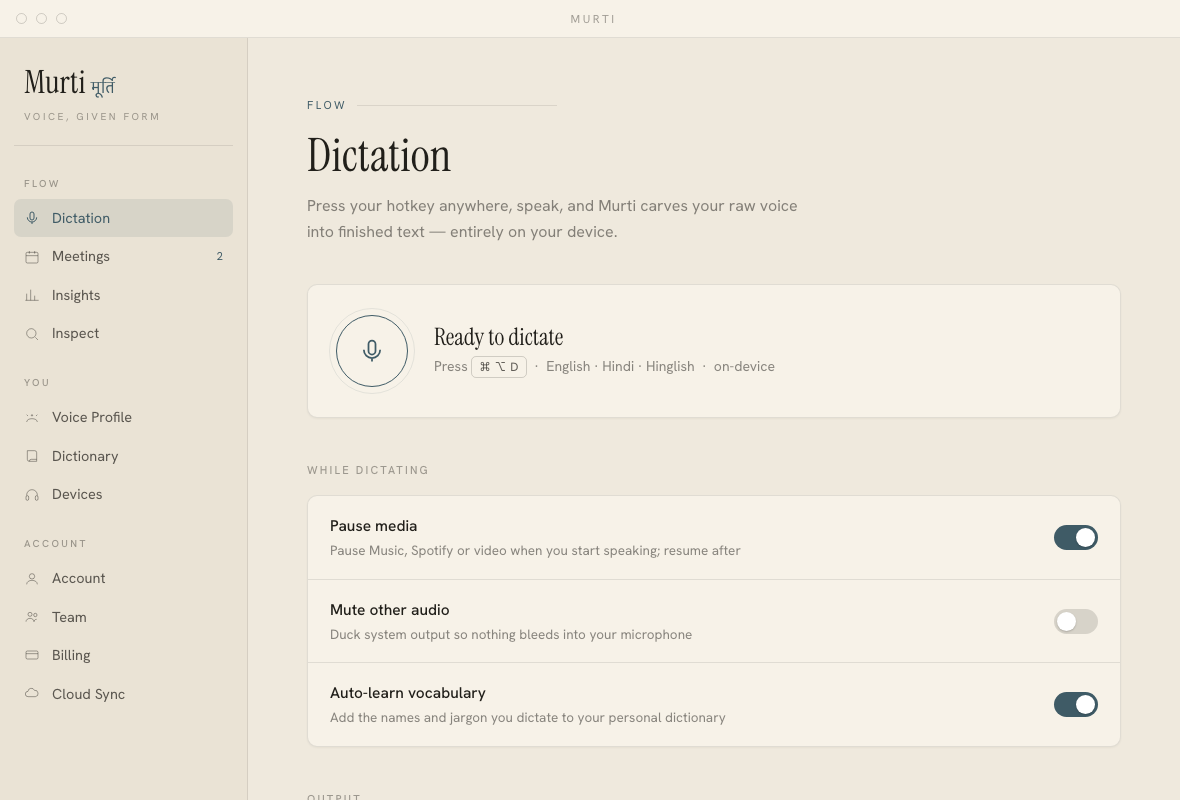
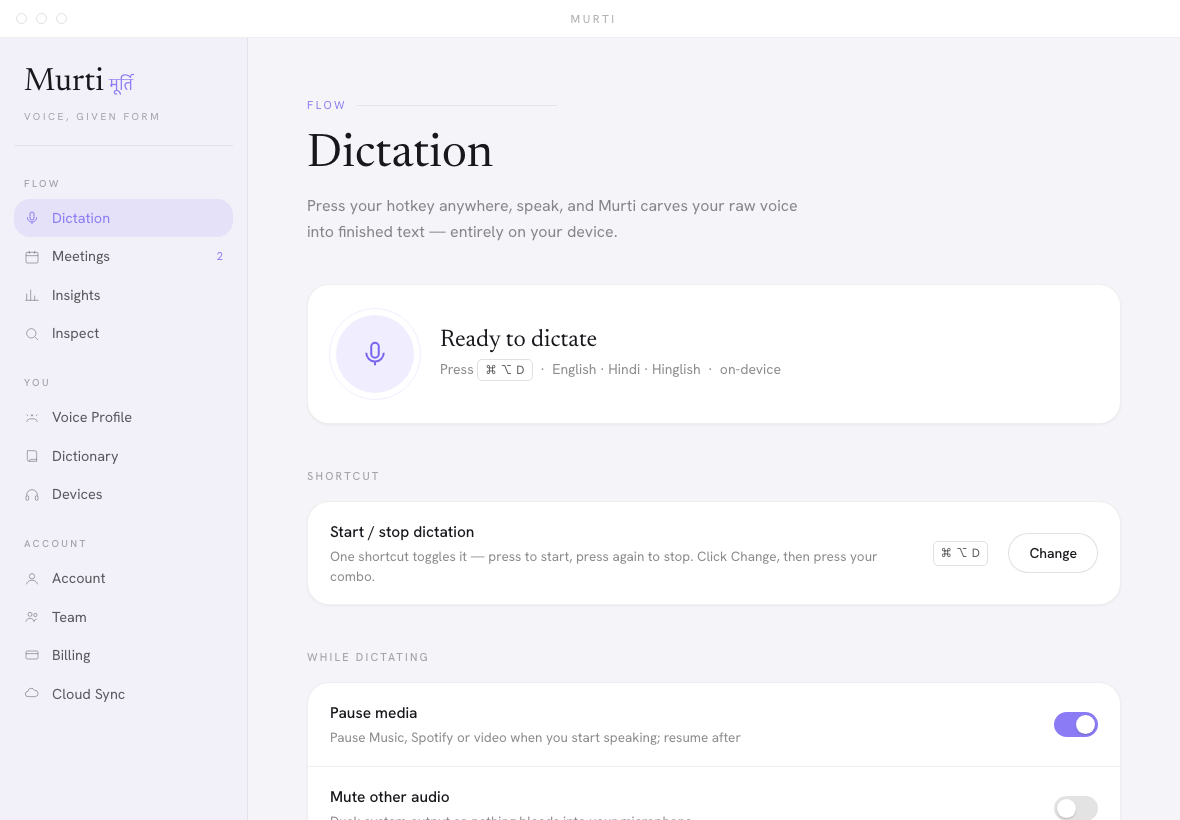
Refresh README + demo to the Serus light/lavender design
- demo/murti-hero.svg: reskinned to the light + lavender palette (white mic
  glyph on a lavender orb), matching the current UI
- demo/dashboard.png: new screenshot of the Serus-style dashboard
- README: Design section rewritten (Newsreader + Hanken, near-white canvas,
  lavender, pill controls, live WKWebView window); added the custom-shortcut
  feature to the table

diff --git a/demo/make_hero_svg.py b/demo/make_hero_svg.py
@@ -11,10 +11,11 @@ Regenerate with:  python3 demo/make_hero_svg.py
 from pathlib import Path
 
 # ---- Murti palette (warm editorial dark + bronze accent) ------------------- #
-BG, CARD, CARD2 = "#0e0d0c", "#161413", "#1d1a18"
-FG, DIM, DIM2 = "#efe9e0", "#a69d8f", "#746b5f"
-LINE = "#2a2622"
-WHITE = "#c08a5a"   # bronze accent (reused wherever the mark needs emphasis)
+BG, CARD, CARD2 = "#f5f4f8", "#ffffff", "#f1eff8"
+FG, DIM, DIM2 = "#18171c", "#6e6c78", "#a3a1ad"
+LINE = "#e6e4ef"
+WHITE = "#8b7cf5"       # lavender accent (reused wherever the mark needs emphasis)
+ON_ACCENT = "#ffffff"   # content drawn on top of the accent circle (mic glyph)
 W, H, CYCLE = 940, 600, 12.0
 FONT = "'Helvetica Neue',-apple-system,BlinkMacSystemFont,system-ui,sans-serif"
 
@@ -115,9 +116,9 @@ def build():
                  f'r="44" fill="none" stroke="{WHITE}" stroke-width="1.5"/>')
     P.append(f'<circle cx="{cx}" cy="{cy}" r="44" fill="{WHITE}"/>')
     P.append(f'<path d="M{cx} {cy-16} a7 7 0 0 1 7 7 v6 a7 7 0 0 1-14 0 v-6 a7 7 0 0 1 7-7z" '
-             f'fill="none" stroke="{BG}" stroke-width="2"/>')
+             f'fill="none" stroke="{ON_ACCENT}" stroke-width="2"/>')
     P.append(f'<path d="M{cx-11} {cy+1} a11 11 0 0 0 22 0 M{cx} {cy+12} v6" '
-             f'fill="none" stroke="{BG}" stroke-width="2"/>')
+             f'fill="none" stroke="{ON_ACCENT}" stroke-width="2"/>')
     P.append(f'<text x="{cx}" y="{cy+74}" fill="{FG}" font-size="15" font-weight="600" '
              f'text-anchor="middle">Recording…</text>')
     bx, bbot, bw, gap, n = wx + 46, wy + 330, 8, 18, 16

diff --git a/README.md b/README.md
@@ -33,6 +33,7 @@ No accounts. No upload. The transcription runs **on your device**.
 | | |
 |---|---|
 | 🎙 **Dictate anywhere** | Press **⌘⌥D**, speak, press again. It transcribes and types at your cursor in any app. |
+| ⌨ **Your own shortcut** | One toggle starts/stops. Record a custom key combo right in the app — it rebinds instantly, no restart. |
 | 🌐 **English · Hindi · Hinglish** | True code-switching. Hindi comes out **romanized (Hinglish)** by default, or Devanagari — your choice. |
 | 🧠 **On-device** | Whisper `large-v3-turbo` runs locally on the Apple Silicon GPU. Private and offline. |
 | ⏸ **Pause media while you speak** | Music / Spotify / video auto-pause when you start and resume after. |
@@ -119,9 +120,12 @@ reverse-engineering engine. (The hero above is a real Inspect run.)
 
 ## Design
 
-The interface follows an editorial, gallery-grade system — **Instrument Serif**
-display type over **Hanken Grotesk**, a bone-paper canvas, a single cool slate
-accent, and an 8-pt grid. Warm, calm, and unmistakably its own.
+A light, airy interface in the spirit of modern privacy-first products —
+**Newsreader** serif headlines over **Hanken Grotesk**, a near-white canvas,
+soft-rounded cards floating on diffuse shadows, fully-rounded pill controls, and
+a single lavender accent. Built to a disciplined system: two type families, four
+colours, an 8-pt grid. The dashboard is a native window (WKWebView) wired to the
+local engine, so what you see is live on-device state.
 
 ## License
 
